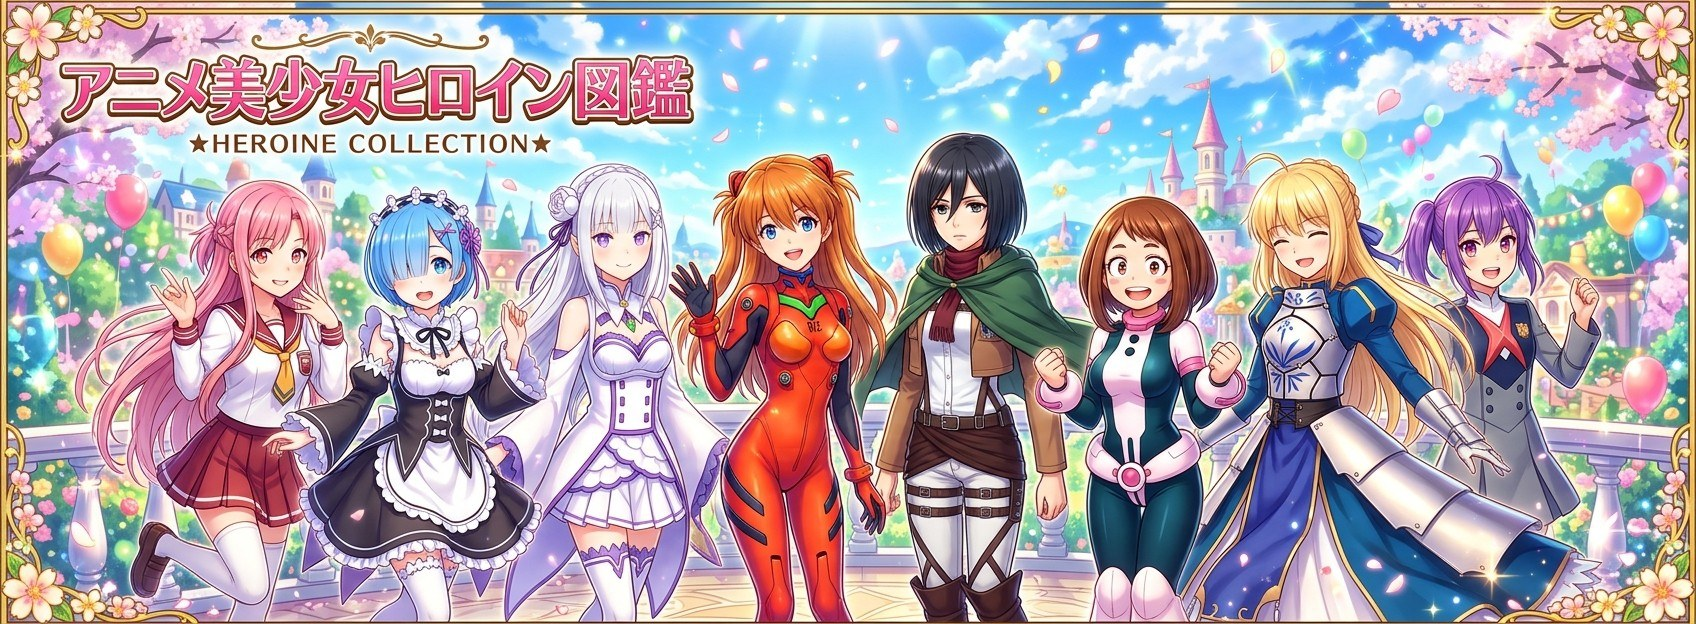
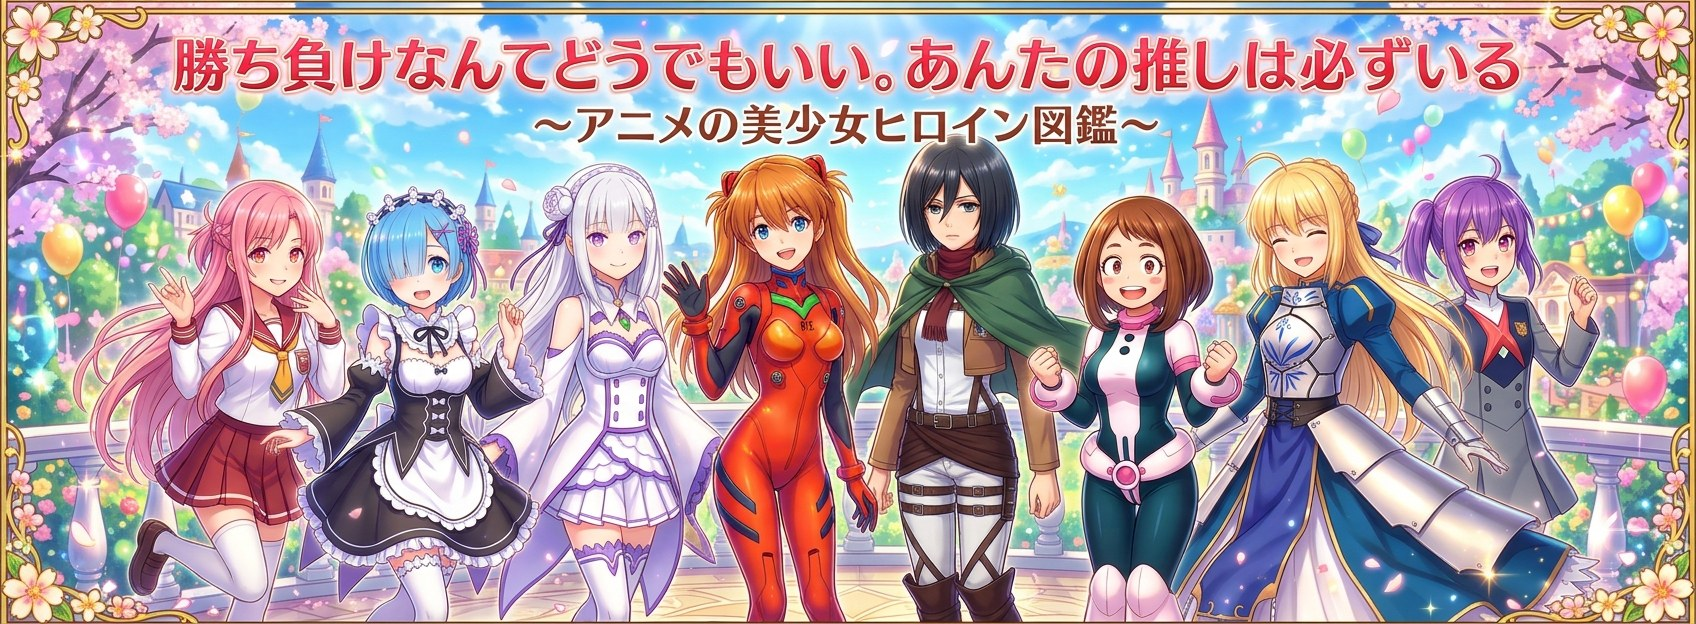
ヘッダー画像をサイト名入りの新しい画像に変更

diff --git a/docs/index.html b/docs/index.html
@@ -5,7 +5,7 @@
 <link rel="stylesheet" href="style.css"><script async src="https://www.googletagmanager.com/gtag/js?id=G-EHWF25C1RB"></script><script>window.dataLayer=window.dataLayer||[];function gtag(){dataLayer.push(arguments)}gtag("js",new Date());gtag("config","G-EHWF25C1RB");</script></head><body>
 <p class="pr">当サイトはアフィリエイト広告（Amazonアソシエイト・楽天アフィリエイト）を利用しています</p>
 <header class="top"><a class="logo" href="index.html"><b>勝ち負けなんてどうでもいい。あんたの推しは必ずいる</b><small>〜アニメの美少女ヒロイン図鑑〜</small></a><nav><a href="index.html">ランキング</a><a href="sub.html">勝ち負け関係なし枠</a><a href="about.html">運営者の気持ち</a></nav></header>
-<main><section class="hero"><img class="banner" src="img/header.jpg" width="1696" height="624" alt="アニメ美少女ヒロイン図鑑 HEROINE COLLECTION"><h1>勝ち負けなんてどうでもいい。<br>あんたの推しは必ずいる</h1><p class="catch">〜アニメの美少女ヒロイン図鑑〜</p>
+<main><section class="hero"><img class="banner" src="img/header.jpg" width="1696" height="624" alt="勝ち負けなんてどうでもいい。あんたの推しは必ずいる 〜アニメの美少女ヒロイン図鑑〜"><h1>勝ち負けなんてどうでもいい。<br>あんたの推しは必ずいる</h1><p class="catch">〜アニメの美少女ヒロイン図鑑〜</p>
 <p class="lead">まだ出会っていないだけで、あなたの“推し”はもう画面の向こうにいます。いま配信でよく観られているアニメから、ヒロインを人気の数字と公式PVつきで集めました。メインでもサブでも、物語の勝ち負けは関係ありません。今日はどの子に会いに行きますか？</p>
 <ul class="nums"><li><b>66</b>作品</li><li><b>121</b>人のヒロイン</li><li><b>35</b>人は勝ち負け関係なし枠</li></ul>
 <div class="cta"><button id="gacha" class="b1" type="button">今日の推し候補を引く</button><a class="b2" href="#list">ランキングから探す</a></div>

diff --git a/build.py b/build.py
@@ -131,7 +131,7 @@ for w in WORKS:
         '<div class="w-body"><div class="w-pv">%s</div><div class="w-list">%s</div></div>%s</section>'
         % (w["rank"], w["rank"], esc(w["work"]), pv_block(w, True), "".join(card(h) for h in w["list"]), watch_line(w)))
 picks = [{"id": h["id"], "n": h["name"], "w": h["work"], "p": h["point"], "c": color(h)} for h in H]
-hero = """<section class="hero"><img class="banner" src="img/header.jpg" width="1696" height="624" alt="アニメ美少女ヒロイン図鑑 HEROINE COLLECTION"><h1>{name}</h1><p class="catch">{catch}</p>
+hero = """<section class="hero"><img class="banner" src="img/header.jpg" width="1696" height="624" alt="勝ち負けなんてどうでもいい。あんたの推しは必ずいる 〜アニメの美少女ヒロイン図鑑〜"><h1>{name}</h1><p class="catch">{catch}</p>
 <p class="lead">{lead}</p>
 <ul class="nums"><li><b>{nw}</b>作品</li><li><b>{nh}</b>人のヒロイン</li><li><b>{ns}</b>人は勝ち負け関係なし枠</li></ul>
 <div class="cta"><button id="gacha" class="b1" type="button">今日の推し候補を引く</button><a class="b2" href="#list">ランキングから探す</a></div>
